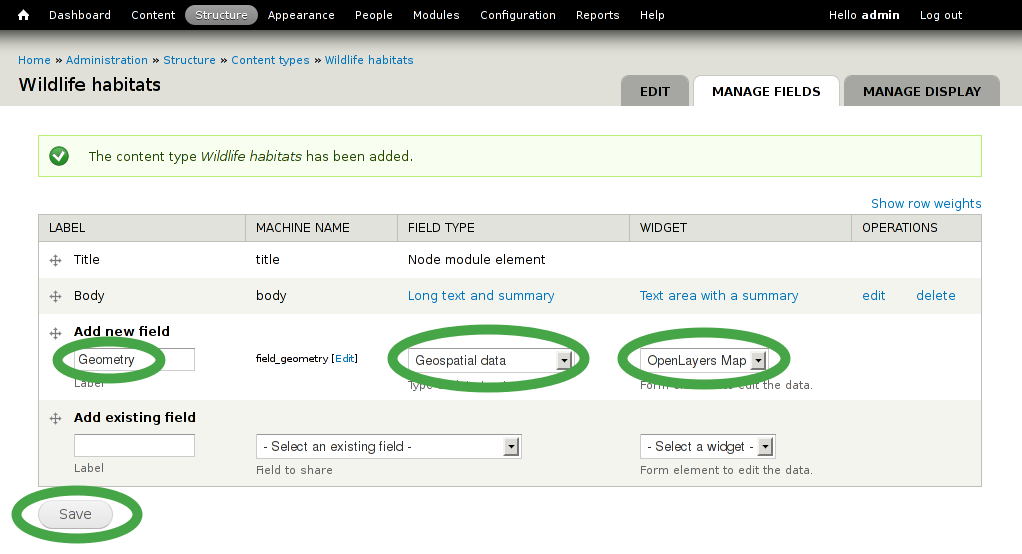
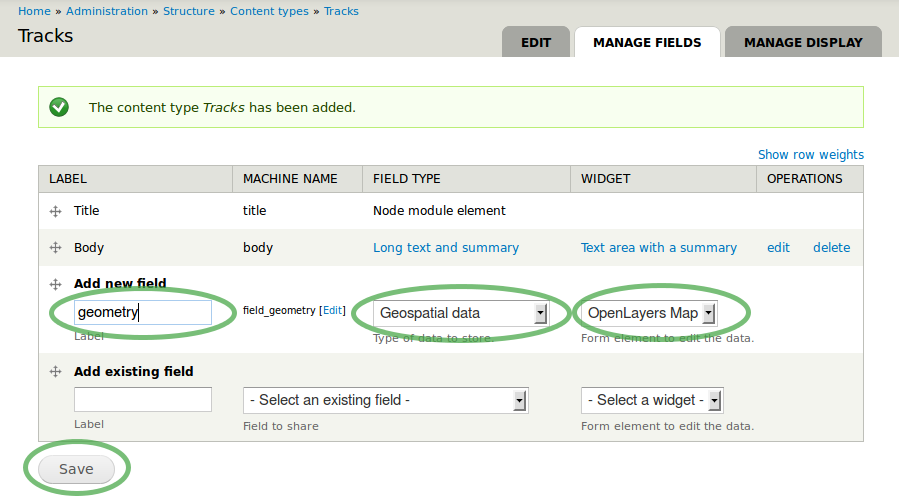
add new screenshots for cartaro quickstart updated cartaro quickstart
git-svn-id: http://svn.osgeo.org/osgeo/livedvd/gisvm/trunk@10510 7da46fd8-bd2a-0410-a152-cf9810cf5b10

diff --git a/doc/en/quickstart/cartaro_quickstart.rst b/doc/en/quickstart/cartaro_quickstart.rst
@@ -12,7 +12,7 @@
 :Author: Friedjoff Trautwein (http://www.geops.de)
 :Author: Augustus Kling (http://www.geops.de)
 :Author: Patric Hafner (http://www.geops.de)
-:Version: osgeo-live6.5draft
+:Version: osgeo-live7.0draft
 :License: Creative Commons Attribution-ShareAlike 3.0 Unported  (CC BY-SA 3.0)
 
 .. image:: ../../images/project_logos/logo-cartaro.png
@@ -29,27 +29,27 @@ Cartaro is a geo-enabled Content Management System (CMS) to manage and publish g
 
 
 
-This Quick Start will guide you through the following tasks:
+This Quickstart will guide you through the following tasks:
 
-  * Create a new geo-enabled content type
-  * Configure Cartaro to display the new content type 
-  * Add new content
+#. Create a new geo-enabled content type
+#. Configure Cartaro to display the new content type with a new content element
+#. Add new geospatial content 
 
 .. contents:: Contents
   
-Start Cartaro
+Starting Cartaro
 ================================================================================
 
 .. Writing Tip:
   Describe steps to start the application
-  This should include a graphic of the pull-down list, with a red circle
+  This should include a graphic of the pull-down list, with a green circle
   around the application menu option.
   #. A hash numbers instructions. There should be only one instruction per
      hash.
 
-#. Choose :menuselection:`Geospatial --> Browser Clients --> Start Cartaro`.
-#. The application will take a few moments to start up
-#. Go to the Cartaro web page at http://localhost/cartaro (this should happen automatically)
+#. Start the OSGeoLive DVD
+#. Choose in your new OSGeoLive installation :menuselection:`Geospatial --> Browser Clients --> Start Cartaro`
+#. The Cartaro web page http://localhost/cartaro will automatically open
 
 .. Writing Tip:
   For images, use a scale of 50% from a 1024x768 display (preferred) or
@@ -61,14 +61,14 @@ Start Cartaro
 Front Page
 ================================================================================
 
-When you open the Cartaro page, you will see the screen above. The front page contains an example map with capital cities.
+When the Cartaro page is opened, you will see the screen above. The front page contains a global map with capital cities as an example.
 
 .. image:: ../../images/screenshots/1024x768/cartaro_frontpage.png
     :scale: 60 %
     :align: center
 
 
-* Click on **Log in** on the upper right corner to access the administrative interface. Please use *admin* as username and *geoserver* as password. You will now see the admin tool bar on top.
+* Please **Log in** on the upper right corner to access the administrative interface with *admin* as username and *geoserver* as password. You will now see the administration menu bar on top.
 
 .. image:: ../../images/screenshots/1024x768/cartaro_userpage.png
     :scale: 60 %
@@ -77,55 +77,63 @@ When you open the Cartaro page, you will see the screen above. The front page co
 .. tip::  You can return to the Front Page anytime by clicking on the home icon in the upper left corner.
 
 
-Create new content type
+Creating a new Content type
 ================================================================================
 
-Content types are describing the fields and the structure of a specific kind of content (e.g. the content type *Capital* contains the fields name and location).
+Content types define the structure and fields of a specific kind of content (e.g. the content type *Capital* contains the fields "name" and "location" to generate content elements for the respective capitals displayed on the map).
 To create a new content type, just follow the steps below.
 
 * Choose :menuselection:`Structure --> Content types` from the menu bar and click on **Add content type** 
 
 
-.. image:: ../../images/screenshots/1024x768/cartaro_contenttypes.png
+.. image:: ../../images/screenshots/1024x768/cartaro_addcontenttype.png
     :scale: 80 %
     :align: center
 
-* Type a name for the new content type and describe it if you want
+* Type a name for the new content type and describe it if you want.
+
+.. image:: ../../images/screenshots/1024x768/cartaro1.png
+    :scale: 50 %
+    :align: center
+
 * Finish by clicking on **Save and add fields**
 
 
-.. image:: ../../images/screenshots/1024x768/cartaro_new_contenttype.png
-    :scale: 80 %
-    :align: center
+* Add a new field for your content type by entering a descriptive name. We want to create a geospatial field with the name  *Geometry* . Select  *Geospatial data*  as field type and  *OpenLayers Map*  as widget.
 
-* Add new field by choosing a descriptive name, select  *Geospatial data*  as field type and  *OpenLayers Map*  as widget
-* Finish by clicking on **Save**
-
-
-.. image:: ../../images/screenshots/1024x768/cartaro_new_field.png
+.. image:: ../../images/screenshots/1024x768/cartaro2.png
     :scale: 70 %
     :align: center
 
-* Select the geometry type that describes the kind of geospatial information you want to store. Choose *Polygon* to follow our example.
+* Finish by clicking on **Save**
+
+* In the new window choose your field settings: select the geometry type that describes the kind of geospatial information you want to store. Choose *Polygone* to follow our example.
+
+.. tip::  Other types of geometry are also available. Choose the type that fits best for your needs. Read the information below in the *Geometry type* drop-box for additional help.
+
+.. image:: ../../images/screenshots/1024x768/cartaro3.png
+    :scale: 70 % 
+    :align: center
+
 * Finish by clicking on **Save field settings**
 
-.. tip::  Other types of geometry are also available. Choose the type that fits best for your needs. Read the information below the *Geometry type* drop-box for additional help.
-
-
-.. image:: ../../images/screenshots/1024x768/cartaro_field_settings.png
+.. image:: ../../images/screenshots/1024x768/cartaro4.png
     :scale: 70 % 
     :align: center
 
-* Press *Save settings* to finally finish the field creation
+* Press *Save settings* to finish the field creation
 
-.. image:: ../../images/screenshots/1024x768/cartaro_manage_field.png
+.. image:: ../../images/screenshots/1024x768/cartaro5.png
     :scale: 70 % 
     :align: center
 
-Configure GeoServer
+* In the field manager you would create further non-geospatial fields. We don't need to create a new one for our example. 
+
+
+Configuring GeoServer
 ================================================================================
 
-:doc:`GeoServer <../overview/geoserver_overview>` is used to provide the geospatial fields of your new content type as layer via :doc:`Web Feature Service (WFS) <../standards/wfs_overview>` and :doc:`Web Map Service (WMS) <../standards/wms_overview>`.
+:doc:`GeoServer <../overview/geoserver_overview>` is used to provide layers via :doc:`Web Feature Service (WFS) <../standards/wfs_overview>` and :doc:`Web Map Service (WMS) <../standards/wms_overview>` with the geospatial field of your content type.
 
 * Choose :menuselection:`Structure --> GeoServer` from the menu bar to visit the GeoServer configuration page
 
@@ -133,147 +141,105 @@ Configure GeoServer
     :scale: 70 %
     :align: center
 
-Styling
+Creating a new layer in GeoServer
 ``````````````````````````````````
-.. note:: This subsection is optional. Just go the next subsection if you want to speed up.  
+* Layers display your geodata in your OpenLayers map. Layers are provided and stored by your GeoServer. 
+* Choose :menuselection:`Structure --> GeoServer` from the menu bar to visit the GeoServer configuration page again
+* Select :menuselection:`Layers` and click **Add** to add a new layer
 
-To change the symbolization of your geospatial fields within a map layer you can define your own style. This is done with the :doc:`Styled Layer Descriptors (SLD) <../standards/sld_overview>` as XML files. 
-There are several ways on how create them which is not covered here. The :doc:`GeoServer <../quickstart/geoserver_quickstart>` documentation describes one way on how the create them.  
-For the sake convenience we created an example styling that can be used here.
-
-* Choose :menuselection:`Styles` on the right side 
-
-.. image:: ../../images/screenshots/1024x768/cartaro_geoserver_style.png
+.. image:: ../../images/screenshots/1024x768/cartaro_geoserver_addnewlayer.png
     :scale: 70 %
     :align: center
 
-* Choose a name for your new style
-* Copy the following example SLD into the *SLD* text box and click *Save*
-* Mind to adjust the content of the *Name* and *Title* tags in the SLD to match *Style Title* and *Style Description* respectively
-
-::
-
-  <?xml version="1.0" encoding="ISO-8859-1"?><StyledLayerDescriptor version="1.0.0" xsi:schemaLocation="http://www.opengis.net/sld StyledLayerDescriptor.xsd" xmlns="http://www.opengis.net/sld" xmlns:ogc="http://www.opengis.net/ogc" xmlns:xlink="http://www.w3.org/1999/xlink" xmlns:xsi="http://www.w3.org/2001/XMLSchema-instance">
-  <NamedLayer>
-    <Name>wildlife</Name>
-     <UserStyle>
-        <Title>Wildlife</Title>
-            <FeatureTypeStyle>
-                <Rule>
-                    <PolygonSymbolizer>
-                        <Fill>
-                            <CssParameter name="fill">#00aa00</CssParameter>
-                            <CssParameter name="fill-opacity">0.5</CssParameter>
-                        </Fill>
-                    </PolygonSymbolizer>
-                </Rule>
-            </FeatureTypeStyle>
-        </UserStyle>
-    </NamedLayer>
-  </StyledLayerDescriptor>
-
-.. image:: ../../images/screenshots/1024x768/cartaro_new_style.png
-    :scale: 70 %
-    :align: center
-
-Layers
-``````````````````````````````````
-* Choose :menuselection:`Structure --> GeoServer` from the menu bar to visit the GeoServer configuration page
-* Select :menuselection:`Layers` and click **Add** to add your new layer
-
-.. image:: ../../images/screenshots/1024x768/cartaro_geoserver_layer.png
-    :scale: 70 %
-    :align: center
-
-#. Type a suitable layer title
-#. Select *PostGIS Field* as Layer type
+#. Type a suitable layer title (e.g. lakes) 
+#. Select the layer type. We choose *PostGIS Field* for advanced geospatial operations and geodata storage 
 #. If you have created your own style one step before, select it as *Style*
-#. Select your fresh created content type as Source
-#. Check  *Provide an OpenLayers WFS layer*  within the OpenLayers section
+#. As source select your created content type (Drupal) which will be associated with your new layer (GeoServer). The term in brakets is the name of your created geospatial field of your content type required to store geodata in your PostGIS database.
+#. Make a checkmark  *Provide an OpenLayers WFS layer*  within the OpenLayers section
 #. Finish configuration by clicking on **Save**
 
-
-.. image:: ../../images/screenshots/1024x768/cartaro_new_layer.png
-    :scale: 90 %
+.. image:: ../../images/screenshots/1024x768/cartaro7.png
+    :scale: 70 %
     :align: center
 
-.. tip:: You can now also access the geospatial fields of your content type via WFS or WMS with other applications (e.g. with :doc:`QGis <../overview/qgis_overview>`)  
+
+* Congratulation! Your new GeoServer layer was added to GeoServer. In the next step we are configuring your OpenLayers map.
+
+.. tip:: You can now also access the geospatial fields of your content type via WFS or WMS with other applications (e.g. with :doc:`QGis <../overview/qgis_overview>`) 
 
 
-Configure OpenLayers
+Configuring OpenLayers to activate your GeoServer layer in a map
 ================================================================================
 
-:doc:`OpenLayers <../overview/openlayers_overview>` is used to display your new layer.
+:doc:`OpenLayers <../overview/openlayers_overview>` is used to display your new layer in a map. You will now associate your GeoServer layer with your OpenLayers map. 
 
-* Choose :menuselection:`Structure --> OpenLayers` from the menu bar to visit the OpenLayers configuration page
-* Choose :menuselection:`Maps` and look for *frontmap* which is used as default map
+* Go to :menuselection:`Structure --> OpenLayers` from the menu bar to visit the OpenLayers configuration page
 
-.. note:: An OpenLayers version warning appears only the first time you visit the OpenLayers configuration page and can be ignored.  
-
-.. image:: ../../images/screenshots/1024x768/cartaro_openlayers_entry.png
+.. image:: ../../images/screenshots/1024x768/cartaro_openlayers_settings.png
     :scale: 70 %
     :align: center
 
+* Please choose :menuselection:`Maps` to activate your layer in a map
+* Look for *frontmap* - a pre-generated, default map and select **Edit** on the right side.
 
-* Look for *frontmap* which is used as default map and select **Edit** on the right side
-
-.. image:: ../../images/screenshots/1024x768/cartaro_openlayers_maps.png
+.. image:: ../../images/screenshots/1024x768/cartaro_openl_maps_frontmapedit.png
     :scale: 70 %
     :align: center
 
-* Frontmap's configuration page will be appear as shown on the screenshot below. 
-* Select :menuselection:`Layers & Styles` on the left side to add our newly created layer to the map.
+* frontmap's configuration page appears shown on the screenshot below. 
 
-.. image:: ../../images/screenshots/1024x768/cartaro_edit_map.png
+.. image:: ../../images/screenshots/1024x768/cartaro_openlayers_frontmapediting.png
     :scale: 70 %
     :align: center
 
-* Look for your new created layer (Wildlife habitats in our example)
-* Check the boxes *Enabled*, *Activated* and *In Switcher* to show your new layer by default
-* Finish configuration by clicking on **Save** at the bottom of the page
+* Select :menuselection:`Layers & Styles` in the left sidebar to add our newly created layer to this frontmap. 
 
-.. image:: ../../images/screenshots/1024x768/cartaro_edit_map2.png
+* Look for your created GeoServer layer ('lakes' in our example)
+* Make checkmarks for *Enabled*, *Activated* and *In Switcher* to activate your new layer *lakes* in your map
+
+.. image:: ../../images/screenshots/1024x768/cartaro_openl_layersstylessettings.png
     :scale: 70 %
     :align: center
 
-Add content
+* Finish configuration by clicking on **Save** at the bottom
+
+Adding geospatial content
 ================================================================================
 
-After creating your content type you can now add as many elements of this type as you want.
+After creating your content type and configuring GeoServer and OpenLayers you can now add as many content elements of this type as you want.
 
-* Choose :menuselection:`Content` from the menu bar to see all exisiting content elements within your Cartaro installation
-* Select **Add content** to add more content
-* Choose your new content type 
+* Choose :menuselection:`Content` from the menu bar to see all existing content elements within your Cartaro installation
 
-.. image:: ../../images/screenshots/1024x768/cartaro_content_overview.png
+.. image:: ../../images/screenshots/1024x768/cartaro_contentlist.png
     :scale: 70 %
     :align: center
 
-#. Type a name for your new content element 
-#. You can now draw the geometry for your element. Choose the draw symbol on the upper right corner of the map. Note that tool tips are shown when you hover the toolbar icons.
-#. Simply click on the map to create a new geometry. Every click will produce a new edge. Finish the drawing with double click.
-#. When you are ready, click on **Save** at the bottom.
+* Select **Add content** to add more content and choose your new content type in the appearing window (not shown). In the configuration page of your new content element make the following settings: 
+
+#. Type a name
+#. You can draw the geometry for your content element. Choose the draw symbol on the upper right corner of the map. Note that tool tips are shown when you hover the toolbar icons. Click on the map to create a new geometry. Finish the drawing with double click.
+#. **Save** your geometry.
 
 .. note:: Only one geometry per content element can be drawn in our example configuration. Create additional content elements to add more polygons.  
 
-.. image:: ../../images/screenshots/1024x768/cartaro_create_content2.png
+.. image:: ../../images/screenshots/1024x768/cartaro8.png
     :scale: 70 %
     :align: center
 
 * You should now see your new content element
+
+.. image:: ../../images/screenshots/1024x768/cartaro_addedcontent_lakefr.png
+    :scale: 50 %
+    :align: center
+
 * To view your new content element on the front map, click on the house icon in the upper left corner
 
-.. tip:: If you are not satisfied with your result, you can easily edit your new content element and change the geometry   
-
-.. image:: ../../images/screenshots/1024x768/cartaro_content_preview2.png
+.. image:: ../../images/screenshots/1024x768/cartaro_addedcontent_frontmap.png
     :scale: 50 %
     :align: center
 
-Congratulations, you have just finished the quickstart tutorial. Your first content element is now ready. To add more content elements simply peform the steps of this section again.
+Congratulations, you have just finished the quickstart tutorial. Your first content element is now ready. To add more content elements simply peform the steps of this section again. 
 
-.. image:: ../../images/screenshots/1024x768/cartaro_frontmap_new.png
-    :scale: 50 %
-    :align: center
 
 
 Things to Try
